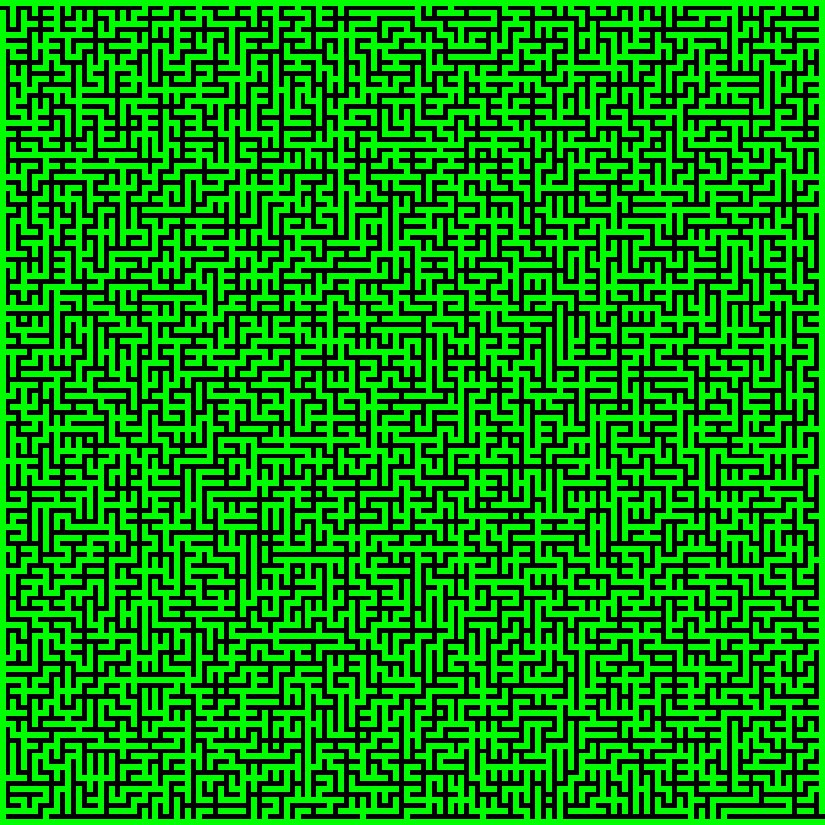
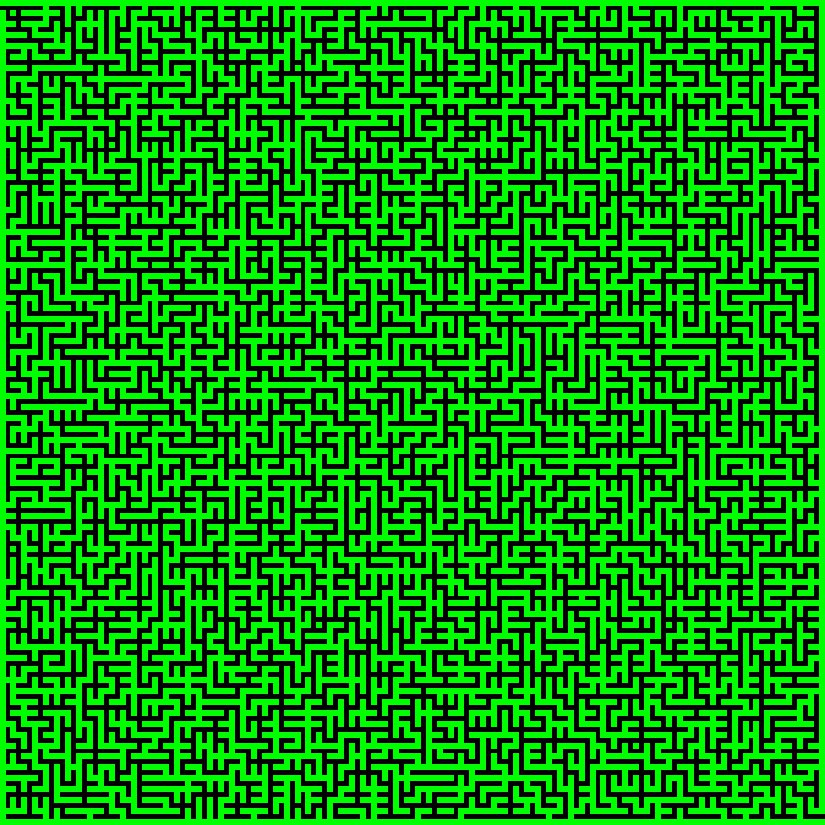
clear

diff --git a/Maze.py b/Maze.py
@@ -12,6 +12,7 @@ class Maze:
 
 
     #Casse un mur au hasard
+    #Permer de créer des labyrinthes à boucles
     def break_random_wall(self):
         neighbors = []
         while not neighbors:
@@ -19,7 +20,7 @@ class Maze:
             neighbors = [x for x in self.get_neighbors(cell) if cell.walls[x[1]]]
         cell.breakWall(rd.choice(neighbors))
 
-    #Création d'un fichier texte représentant un labyrinthe
+    #Création d'un fichier texte représentant un labyrinthe, dans le dossier doodles
     def create_file(self):
         with open(f"doodles/{self.filename}.txt",'w') as f:
             f.write(self.doodle())
@@ -157,18 +158,16 @@ class Maze:
             for cell in BOARD[max_id]:
                 BOARD[min_id].append(cell)
                 cell.id = min_id
-            BOARD.pop(max_id)          
-            
-            
-            #self.fuse_id(cell, neighboring_cell)
+            BOARD.pop(max_id) #Le max_id n'existe plus         
         self.done = True
         return True
     
 
     #Résolution par Recursive backtracking
-    #Retourne un tuple de 2 éléments contenant :
+    #Retourne un tuple de 3 éléments contenant :
     #Un tableau contenant les coordonnées du chemin de résolution
     #Un tableau contenant les coordonnées des cases visitées
+    #Une chaîne de caractère : le label de la méthode de résolution
     def backtrack_solving_map(self):
         current_cell = self.layout[0][0] #Case de départ
         path = [current_cell] #Chemin de résolution
@@ -189,13 +188,15 @@ class Maze:
         return ( [(cell.v, cell.h) for cell in path] , [(cell.v, cell.h) for cell in heatmap] , "RB")
 
 
+    #Distance heuristique d'une cellule à la sortie
     def dist(self, cell):
         return 2*(self.N-1) - cell.v - cell.h
     
     #Résolution par l'algorithme A-star
-    #Retourne un tuple de 2 éléments contenant :
+    #Retourne un tuple de 3 éléments contenant :
     #Un tableau contenant les coordonnées du chemin de résolution
     #Un tableau contenant les coordonnées des cases visitées
+    #Le label
     def astar_solving_map(self):
         #Dictionnaires dont les clés sont les cellules, 
         cost = {} #Coût - du déplacement de la cellule initiale jusqu'à la cellule
